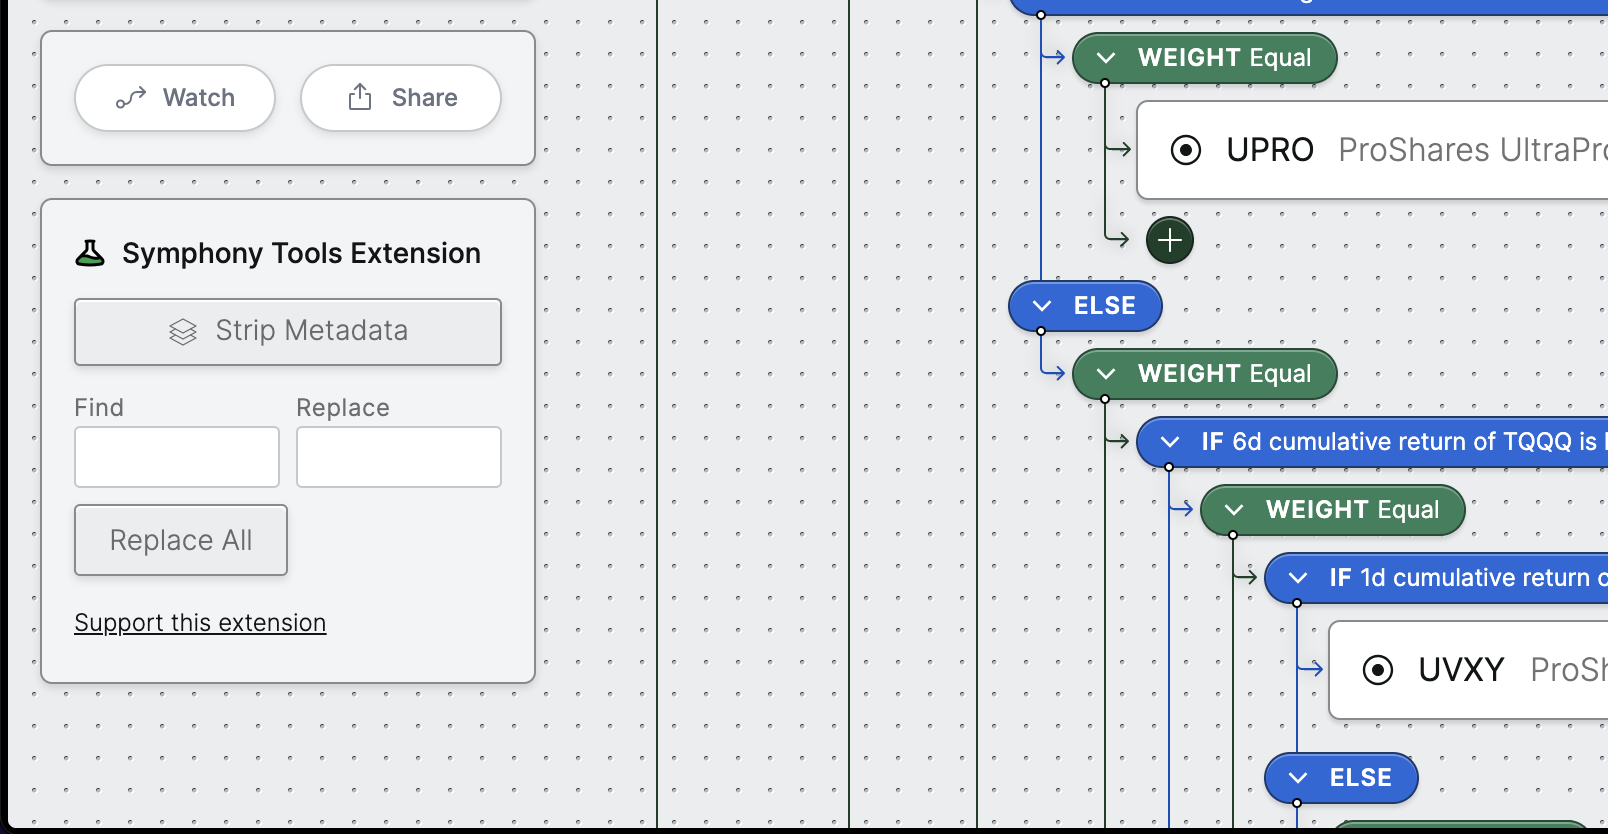
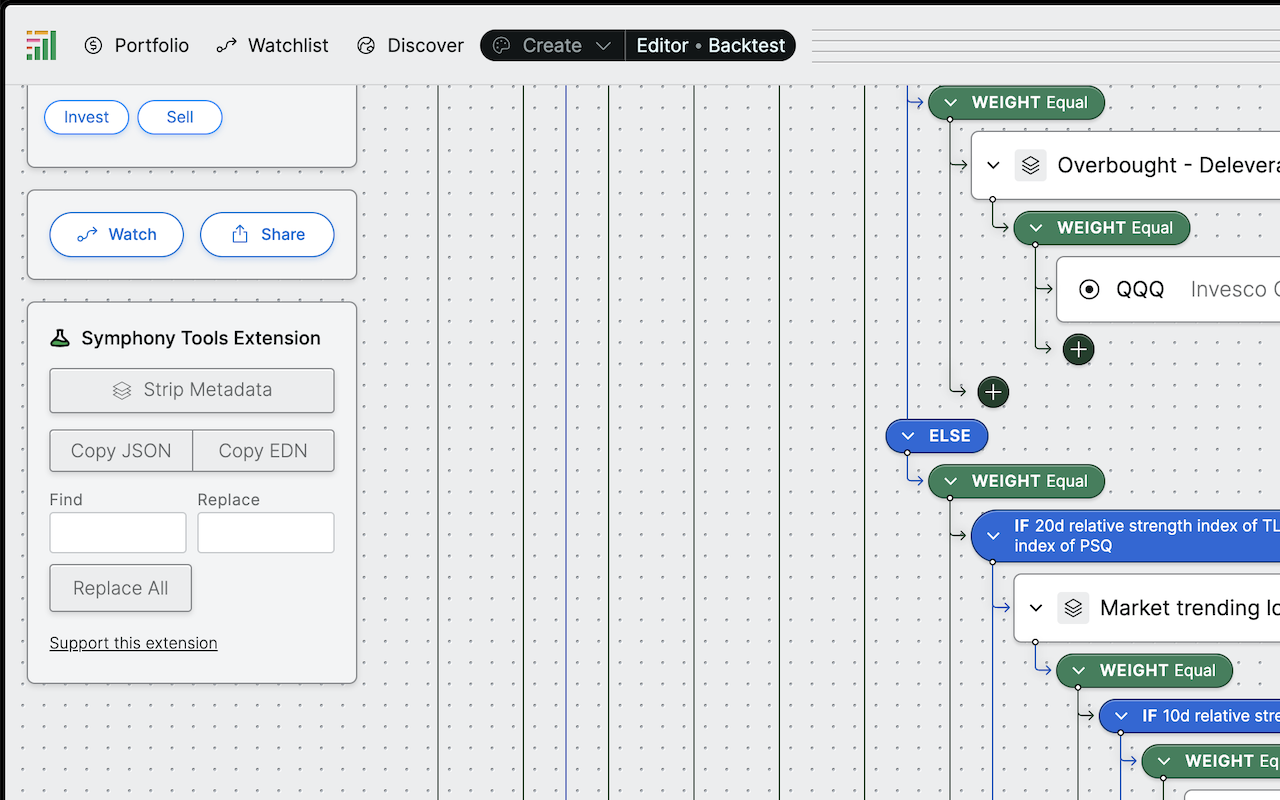
Update readme

diff --git a/README.md b/README.md
@@ -10,14 +10,25 @@ Chrome Extension that provides tools and enhancements to the Composer.trade user
   - Aggregate holdings and allocations across all symphonies
   - Display broker type for account (Alpaca/Apex)
 
-Symphony Editor
-![Symphony Tools Extension - Symphony Editor](docs/images/symphony-editor.png)
-
 Aggregate Holdings
 ![Symphony Tools Extension - Portfolio](docs/images/portfolio.png)
 
+Symphony Editor
+![Symphony Tools Extension - Symphony Editor](docs/images/symphony-editor.png)
+
 ### Installation
 
+#### Chrome Web Store
+The easiest way to install the extension is through the Chrome Web Store.
+
+1. Go to https://chromewebstore.google.com/detail/symphony-tools-extension/gbmghoigiaomcfnnoijngbdnglpifbkk
+2. Click "Add to Chrome"
+3. If you have the composer site open in your browser, refresh the page so the widget can load. 
+4. Where to find the widgets
+    1. In the Symphony editor, the widget should appear on the sidebar under the Watch/Share buttons.
+    2. In the portfolio view, the widget should appear at the bottom of the page under all your live symphonies
+
+#### Manual Installation
 1. Go to the latest release and download the .zip file
     https://github.com/dpods/symphony-tools/releases/latest
 2. Unzip the contents 
